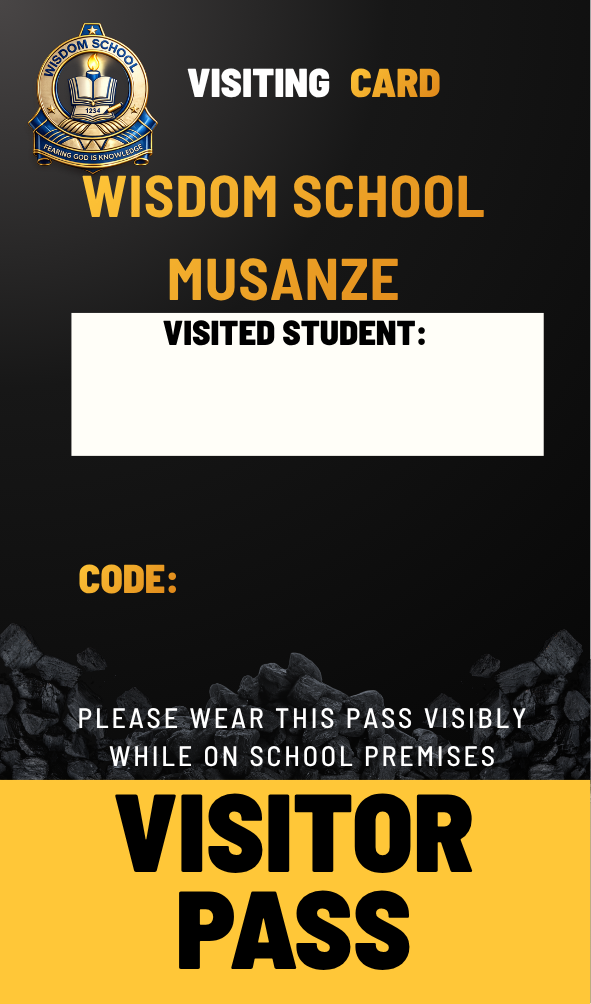
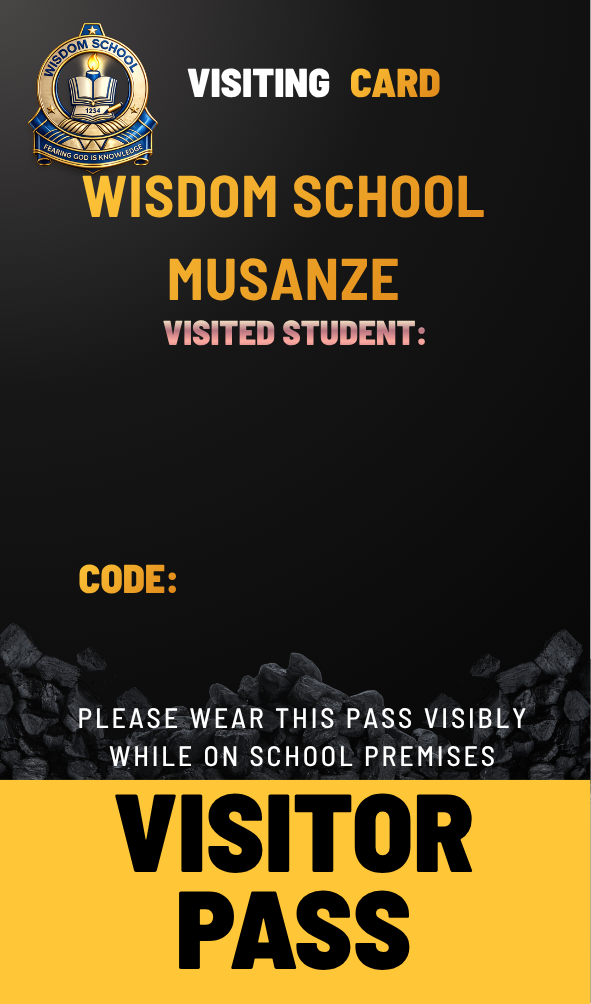
Use new VISIT.png for parent visiting cards with student regno as CODE.
Force the fixed visitor pass artwork and place the visited student's name and registration number on the matching template fields.

Changed region(s): [[0.1218, 0.3088, 0.9442, 0.4631]]

diff --git a/app/Views/templates/visitor_card_smart.php b/app/Views/templates/visitor_card_smart.php
@@ -1,13 +1,13 @@
 <?php
 /**
- * Portrait visitor pass — full-bleed template PNG.
- * Dynamic fields only: visited student name + registration code (regno).
+ * Portrait visitor pass — full-bleed VISIT.png template.
+ * Dynamic fields only: visited student name + registration number (CODE).
  * No photo.
  */
 helper('qonics');
 
 $cardW = 54.0;
-$cardH = 91.7; // matches template aspect ~591×1004
+$cardH = 91.7; // 591×1004 template
 
 $useCaps = !empty($capitalize);
 $fmt = static function ($v) use ($useCaps) {
@@ -15,10 +15,8 @@ $fmt = static function ($v) use ($useCaps) {
 	return $useCaps ? mb_strtoupper($v, 'UTF-8') : $v;
 };
 
-$bgFile = trim((string) ($background ?? ''));
-if ($bgFile === '' || !is_file(FCPATH . 'assets/images/background/' . $bgFile)) {
-	$bgFile = 'visitor_pass_template.png';
-}
+// Always use the fixed visitor pass artwork.
+$bgFile = 'visitor_pass_template.png';
 $bgSrc = asset_card_img_src(
 	'assets/images/background/' . $bgFile,
 	'assets/images/background/visitor_pass_template.png',
@@ -36,16 +34,20 @@ $fitLine = static function (string $text, float $boxWmm, float $boxHmm, float $m
 	return max($minMm, min($maxMm, min($fromW, $boxHmm * 0.72)));
 };
 
-// Overlay zones tuned to Black/Yellow/White visiting-card template (591×1004 → 54×91.7mm)
-$nameX = 7.0;
-$nameY = 34.2;
-$nameW = 40.0;
-$nameH = 6.8;
+/*
+ * Measured on VISIT.png (591×1004 → 54×91.7mm):
+ * - "VISITED STUDENT:" centered ~y=320–344; value sits on the line below.
+ * - "CODE:" ends ~x=175, y≈565–592; regno starts immediately after the colon.
+ */
+$nameX = 5.5;
+$nameY = 33.5;
+$nameW = 43.0;
+$nameH = 7.5;
 
-$codeX = 18.0;
-$codeY = 52.2;
-$codeW = 32.0;
-$codeH = 4.2;
+$codeX = 17.5;
+$codeY = 51.0;
+$codeW = 33.0;
+$codeH = 4.5;
 ?>
 <style>
 	@page { size: <?= number_format($cardW, 1, '.', ''); ?>mm <?= number_format($cardH, 1, '.', ''); ?>mm; margin: 0; }
@@ -53,7 +55,7 @@ $codeH = 4.2;
 		margin: 0; padding: 0;
 		width: <?= number_format($cardW, 1, '.', ''); ?>mm;
 		height: <?= number_format($cardH, 1, '.', ''); ?>mm;
-		background: #fff;
+		background: #111;
 	}
 	.page-break { page-break-after: always; height: 0; margin: 0; padding: 0; }
 	.card {
@@ -80,26 +82,30 @@ $codeH = 4.2;
 $cards = $visitors ?? [];
 foreach ($cards as $i => $visitor):
 	$studentName = $fmt($visitor['student_name'] ?? '—');
+	// CODE = visited student's registration number (never visitor card UID).
 	$studentReg = $fmt($visitor['student_regno'] ?? '—');
-	$fsName = $fitLine($studentName, $nameW, $nameH, 3.4, 1.6);
-	$fsCode = $fitLine($studentReg, $codeW, $codeH, 2.6, 1.5);
+	if ($studentReg === '') {
+		$studentReg = '—';
+	}
+	$fsName = $fitLine($studentName, $nameW, $nameH, 3.6, 1.5);
+	$fsCode = $fitLine($studentReg, $codeW, $codeH, 3.2, 1.6);
 ?>
 <div class="card">
 	<?php if ($bgSrc): ?>
 	<img class="card-bg" src="<?= $bgSrc; ?>" alt="">
 	<?php endif; ?>
 
-	<!-- Visited student name (white box area) -->
+	<!-- Visited student name (below VISITED STUDENT: label) -->
 	<p class="abs" style="left:<?= number_format($nameX, 1, '.', ''); ?>mm;top:<?= number_format($nameY, 1, '.', ''); ?>mm;
 		width:<?= number_format($nameW, 1, '.', ''); ?>mm;height:<?= number_format($nameH, 1, '.', ''); ?>mm;
 		font-size:<?= number_format($fsName, 2, '.', ''); ?>mm;line-height:<?= number_format($nameH, 1, '.', ''); ?>mm;
-		font-weight:800;color:#0f172a;text-align:center;"><?= esc($studentName); ?></p>
+		font-weight:800;color:#f8fafc;text-align:center;"><?= esc($studentName); ?></p>
 
-	<!-- Code = registration number -->
+	<!-- CODE = student registration number -->
 	<p class="abs" style="left:<?= number_format($codeX, 1, '.', ''); ?>mm;top:<?= number_format($codeY, 1, '.', ''); ?>mm;
 		width:<?= number_format($codeW, 1, '.', ''); ?>mm;height:<?= number_format($codeH, 1, '.', ''); ?>mm;
 		font-size:<?= number_format($fsCode, 2, '.', ''); ?>mm;line-height:<?= number_format($codeH, 1, '.', ''); ?>mm;
-		font-weight:800;color:#facc15;letter-spacing:0.04em;"><?= esc($studentReg); ?></p>
+		font-weight:800;color:#facc15;letter-spacing:0.04em;text-align:left;"><?= esc($studentReg); ?></p>
 </div>
 <?php if ($i < count($cards) - 1): ?>
 <div class="page-break"></div>

diff --git a/app/Controllers/Home.php b/app/Controllers/Home.php
@@ -8061,14 +8061,14 @@ public function attendanceCard()
 		$classMdl = new ClassesModel();
 		$school_id = $this->session->get("soma_school_id");
 		$data['title'] = lang("app.manageCourse");
-		$data['classes'] = $classMdl->select("classes.id,classes.title,d.title as department_name,d.code as dept_code,l.title as level_name
-		,f.type,f.abbrev as faculty_code,concat(s.fname,' ',s.lname) as mentor_name,s.id as idstf")
-				->join("departments d", "d.id=classes.department")
-				->join("levels l", "l.id=classes.level")
-				->join("faculty f", "f.id=d.faculty_id")
-				->join("staffs s", "s.id=classes.mentor", "LEFT")
-				->where("classes.school_id", $school_id)
-				->get()->getResultArray();
+		// Pedagogical order (Nursery → Primary → O'Level → A'Level…); hide Holiday sections
+		$classes = $classMdl->get_classes();
+		$data['classes'] = array_values(array_filter($classes, static function ($row) {
+			$title = strtolower(trim((string) ($row['title'] ?? '')));
+			$dept = strtolower(trim((string) ($row['department_name'] ?? '')));
+			return $title !== 'holiday' && strpos($title, 'holiday') === false
+				&& strpos($dept, 'holiday') === false;
+		}));
 		$data['courses'] = $courseModel->select("courses.id,courses.title,courses.code,courses.marks,courses.credit,cs.title as category")
 				->join("course_category cs", "cs.id=courses.category")
 				->where("courses.school_id", $school_id)
@@ -8076,6 +8076,7 @@ public function attendanceCard()
 		$data['faculty'] = $faculty->get()->getResultArray();
 		$data['years'] = $acMdl->select('id,title')->where("school_id", $school_id)
 				->orderBy("id", 'DESC')->get()->getResultArray();
+		$data['active_academic_year'] = (int) ($this->data['academic_year'] ?? $this->session->get('soma_academics_year') ?? 0);
 		$data['categories'] = $CourseCategory->get()->getResultArray();
 		$data['staffs'] = $staffMdl->where("school_id", $school_id)->get()->getResultArray();
 		$data['subtitle'] = lang("app.manageCourse");
@@ -16348,9 +16349,9 @@ public function assign_card()
 		}
 		$autoHeaders = \App\Libraries\CardLayout::composeHeaderLines($skData);
 
-		$bgFile = trim((string) ($skData->vi_card_background ?? ''));
-		if ($bgFile === '' || !is_file(FCPATH . 'assets/images/background/' . $bgFile)) {
-			$bgFile = 'visitor_pass_template.png';
+		$bgFile = 'visitor_pass_template.png';
+		if (!is_file(FCPATH . 'assets/images/background/' . $bgFile)) {
+			$bgFile = trim((string) ($skData->vi_card_background ?? ''));
 		}
 
 		$data = [
@@ -16366,8 +16367,7 @@ public function assign_card()
 			'main_color' => ($skData->vi_main_color ?: $skData->main_color) ?: \App\Libraries\CardLayout::defaultAccent($cardTemplate),
 			'paint_color' => ($skData->vi_paint_color ?: ($skData->vi_main_color ?: $skData->main_color))
 				?: \App\Libraries\CardLayout::defaultAccent($cardTemplate),
-			'capitalize' => $skData->vi_capitalize !== null && $skData->vi_capitalize !== ''
-				? $skData->vi_capitalize : $skData->capitalize,
+			'capitalize' => 1,
 			'footer_color' => $skData->vi_footer_color ?: $skData->footer_color,
 			'orientation' => 'portrait',
 			'card_template' => $cardTemplate,
